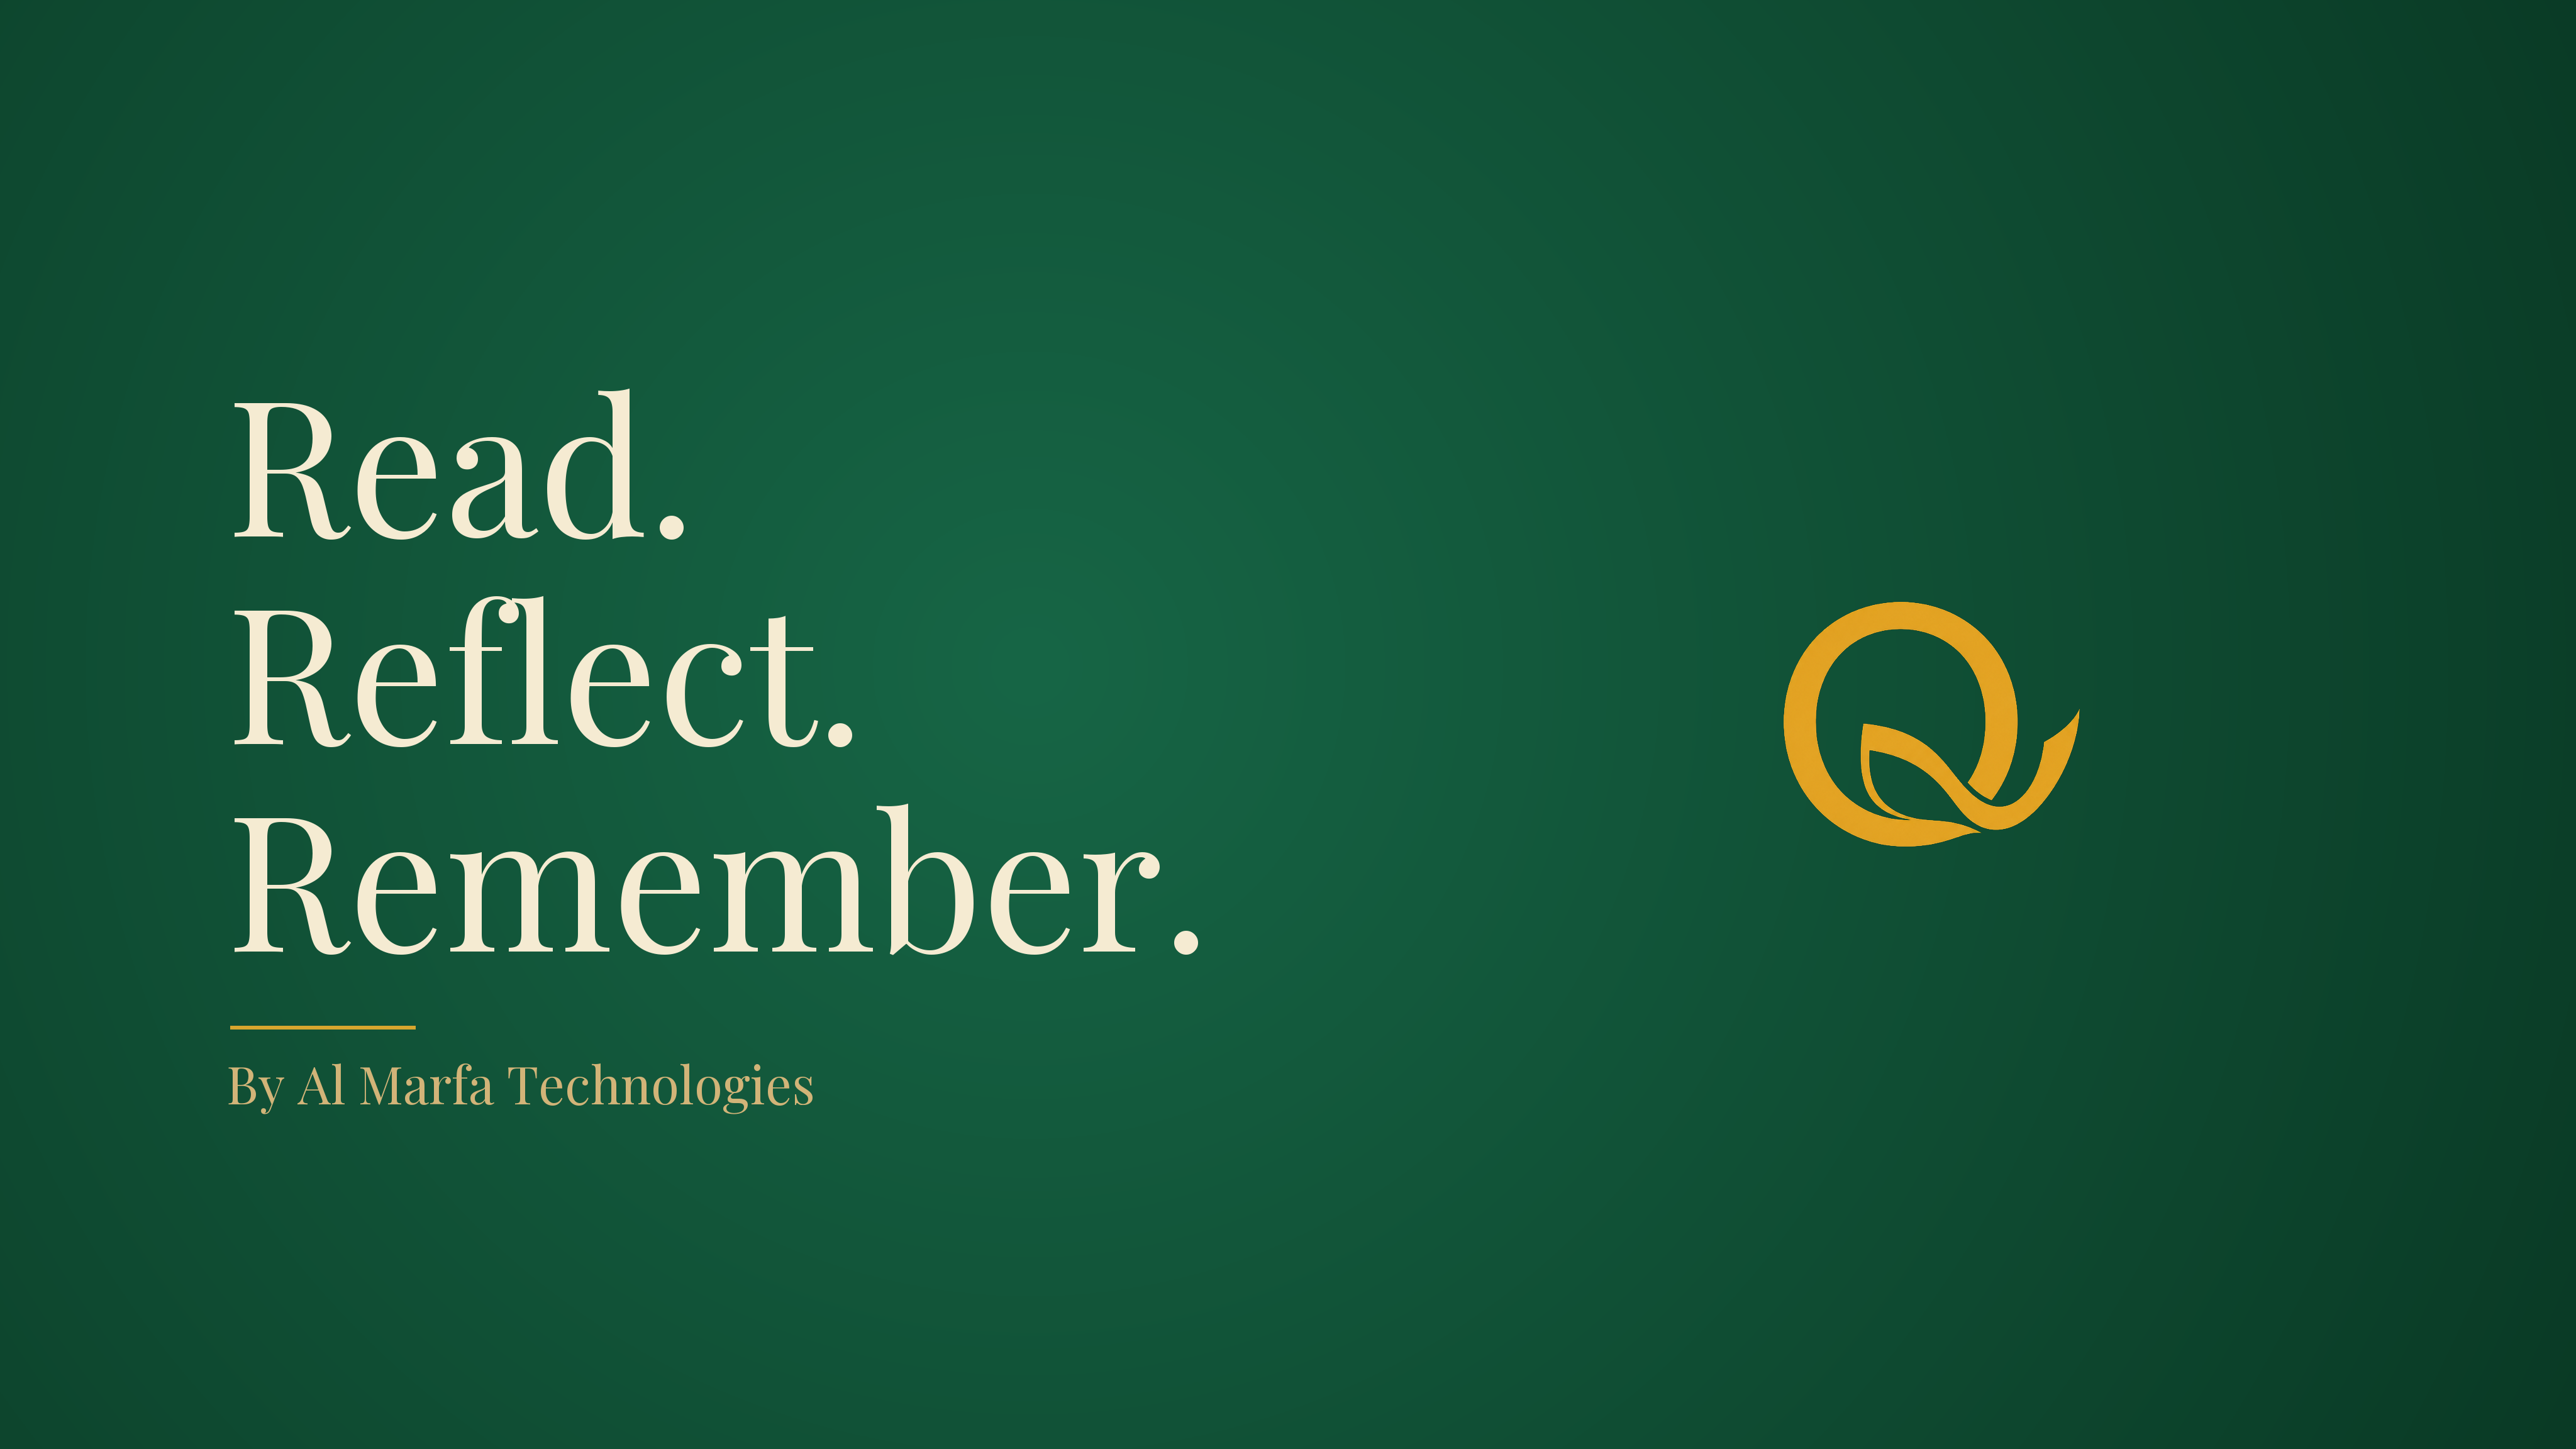
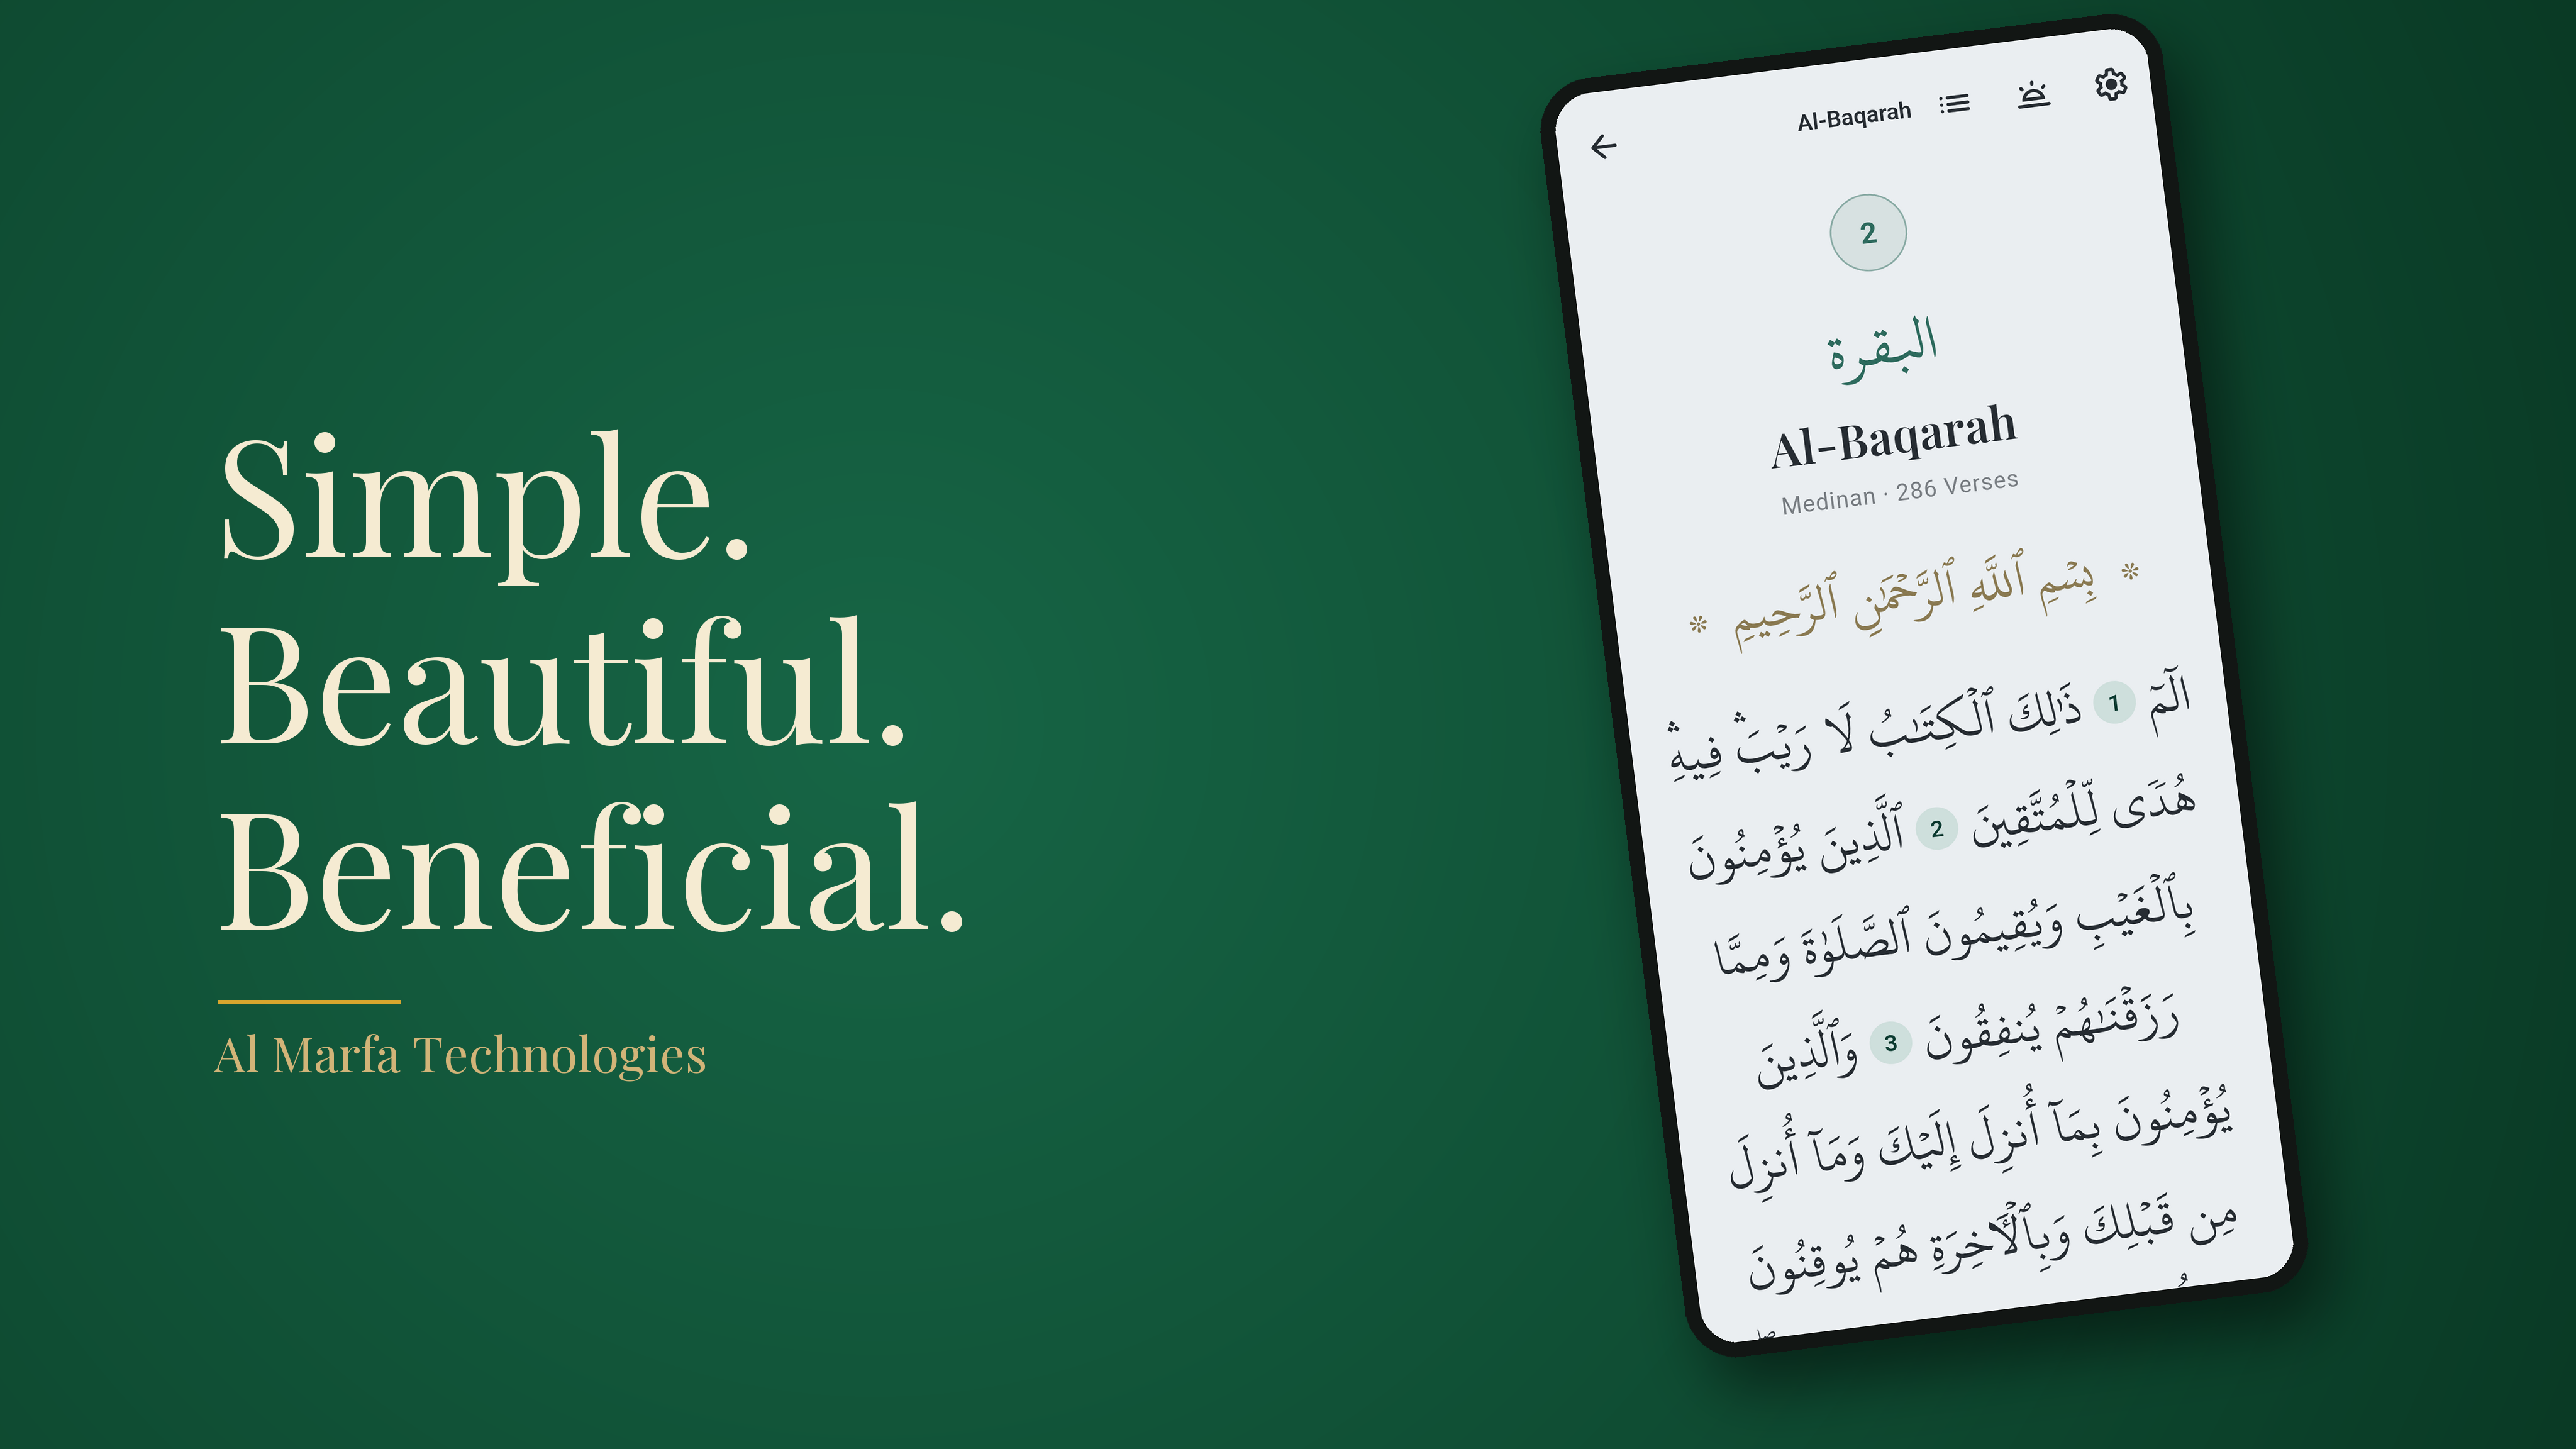
store-assets: developer header v2 — 'Simple. Beautiful. Beneficial.' + phone
Studio-neutral headline + a tilted phone mockup (Al Quran reading page, dark
bezel, soft shadow) on the deep-green brand field. 4096x2304, 24-bit PNG,
no alpha — Play Console -> Developer account -> Developer profile.

diff --git a/docs/store-assets/make_developer_header.py b/docs/store-assets/make_developer_header.py
@@ -2,57 +2,92 @@
 """Google Play *developer page* header (Al Marfa Technologies).
 
 4096x2304 (16:9), 24-bit PNG (no alpha) — upload at Play Console -> Developer
-account -> Developer profile -> Header image. Deep-green brand radial + a
-stacked Playfair headline + the gold Q mark. Run from the repo root:
-    python3 docs/store-assets/make_developer_header.py
+account -> Developer profile -> Header image. Deep-green brand radial +
+stacked Playfair headline + a tilted phone showing the Al Quran reading screen.
+Run from the repo root:  python3 docs/store-assets/make_developer_header.py
 """
 import math
 import os
-from PIL import Image, ImageDraw, ImageFont
+from PIL import Image, ImageDraw, ImageFont, ImageFilter
 
 ROOT = os.path.dirname(os.path.dirname(os.path.dirname(os.path.abspath(__file__))))
 FONT = os.path.join(ROOT, "assets/fonts/PlayfairDisplay-SemiBold.ttf")
-LOGO = os.path.join(ROOT, "assets/icon/splash_logo.png")
+SHOT = os.path.join(ROOT, "docs/store-assets/screenshots/raw/02-reading.png")
 OUT = os.path.join(ROOT, "docs/store-assets/play-developer-header-4096x2304.png")
 
 W, H = 4096, 2304
 CENTER, EDGE = (0x17, 0x66, 0x46), (0x0A, 0x3A, 0x25)
 CREAM, GOLD, SUBGOLD = (245, 235, 210), (216, 166, 46), (210, 180, 120)
-HEADLINE = ["Read.", "Reflect.", "Remember."]
-SUBLINE = "By Al Marfa Technologies"
+HEAD = ["Simple.", "Beautiful.", "Beneficial."]
+SUB = "Al Marfa Technologies"
 
-# radial-gradient background (offset left so the headline sits on the brighter side)
-img = Image.new("RGB", (W, H), EDGE)
+
+def radial(w, h, cxf, cyf):
+    img = Image.new("RGB", (w, h), EDGE)
+    d = ImageDraw.Draw(img)
+    cx, cy = int(w * cxf), int(h * cyf)
+    maxr = int(max(math.hypot(cx, cy), math.hypot(w - cx, cy),
+                   math.hypot(cx, h - cy), math.hypot(w - cx, h - cy)))
+    for r in range(maxr, 0, -1):
+        t = r / maxr
+        col = tuple(int(EDGE[i] * t + CENTER[i] * (1 - t)) for i in range(3))
+        d.ellipse([cx - r, cy - r, cx + r, cy + r], fill=col)
+    return img
+
+
+def rounded_alpha(w, h, rad):
+    m = Image.new("L", (w, h), 0)
+    ImageDraw.Draw(m).rounded_rectangle([0, 0, w, h], rad, fill=255)
+    return m
+
+
+img = radial(W, H, 0.34, 0.5).convert("RGBA")
+
+# ---- phone mockup (right, tilted, bleeding off the top) ----
+shot = Image.open(SHOT).convert("RGB").crop((0, 122, 1272, 2800))
+screen_h = 2000
+sc = screen_h / shot.height
+sw, sh = int(shot.width * sc), screen_h
+shot = shot.resize((sw, sh), Image.LANCZOS).convert("RGBA")
+srad = 60
+shot.putalpha(rounded_alpha(sw, sh, srad))
+
+bez = 24                                   # phone bezel
+bw, bh = sw + 2 * bez, sh + 2 * bez
+body = Image.new("RGBA", (bw, bh), (0, 0, 0, 0))
+ImageDraw.Draw(body).rounded_rectangle([0, 0, bw, bh], srad + bez, fill=(18, 22, 20, 255))
+body.alpha_composite(shot, (bez, bez))
+
+phone = body.rotate(7, expand=True, resample=Image.BICUBIC)   # top leans right
+pw, ph = phone.size
+cxp, cyp = 3060, 1090                        # phone centre (bleeds off the top)
+px, py = int(cxp - pw / 2), int(cyp - ph / 2)
+
+# soft drop shadow from the phone silhouette
+sil = Image.new("RGBA", (pw, ph), (0, 0, 0, 0))
+sil.putalpha(phone.split()[3].point(lambda a: int(a * 0.5)))
+black = Image.new("RGBA", (pw, ph), (0, 0, 0, 0))
+black.paste((0, 0, 0), (0, 0), sil)
+shadow = Image.new("RGBA", (W, H), (0, 0, 0, 0))
+shadow.alpha_composite(black, (px + 34, py + 52))
+shadow = shadow.filter(ImageFilter.GaussianBlur(48))
+img = Image.alpha_composite(img, shadow)
+img.alpha_composite(phone, (px, py))
+
+# ---- headline (left, vertically centred) ----
 d = ImageDraw.Draw(img)
-cx, cy = int(W * 0.40), int(H * 0.46)
-maxr = int(max(math.hypot(cx, cy), math.hypot(W - cx, cy),
-               math.hypot(cx, H - cy), math.hypot(W - cx, H - cy)))
-for r in range(maxr, 0, -1):
-    t = r / maxr
-    col = tuple(int(EDGE[i] * t + CENTER[i] * (1 - t)) for i in range(3))
-    d.ellipse([cx - r, cy - r, cx + r, cy + r], fill=col)
-
-# gold Q mark, right side, vertically centred
-q = Image.open(LOGO).convert("RGBA")
-q.thumbnail((1480, 1480), Image.LANCZOS)
-img.paste(q, (2560, (H - q.height) // 2), q)
-
-# stacked headline, left, vertically centred as a block
-d = ImageDraw.Draw(img)
-big = ImageFont.truetype(FONT, 300)
-sub = ImageFont.truetype(FONT, 82)
-x, step = 360, 330
-top = (H - step * len(HEADLINE)) // 2 - 40
+big = ImageFont.truetype(FONT, 258)
+sub = ImageFont.truetype(FONT, 78)
+x, step = 340, 296
+top = (H - step * len(HEAD)) // 2 - 26
 y = top
-for ln in HEADLINE:
+for ln in HEAD:
     bb = d.textbbox((0, 0), ln, font=big)
     d.text((x, y - bb[1]), ln, font=big, fill=CREAM)
     y += step
+ry = y + 22
+d.line([(x + 6, ry), (x + 296, ry)], fill=GOLD, width=6)
+d.text((x, ry + 28), SUB, font=sub, fill=SUBGOLD)
 
-# gold rule + subline
-ry = y + 26
-d.line([(x + 6, ry), (x + 300, ry)], fill=GOLD, width=6)
-d.text((x, ry + 34), SUBLINE, font=sub, fill=SUBGOLD)
-
-img.save(OUT)  # RGB, no alpha channel
+img.convert("RGB").save(OUT)   # no alpha
 print("saved", OUT, img.size)